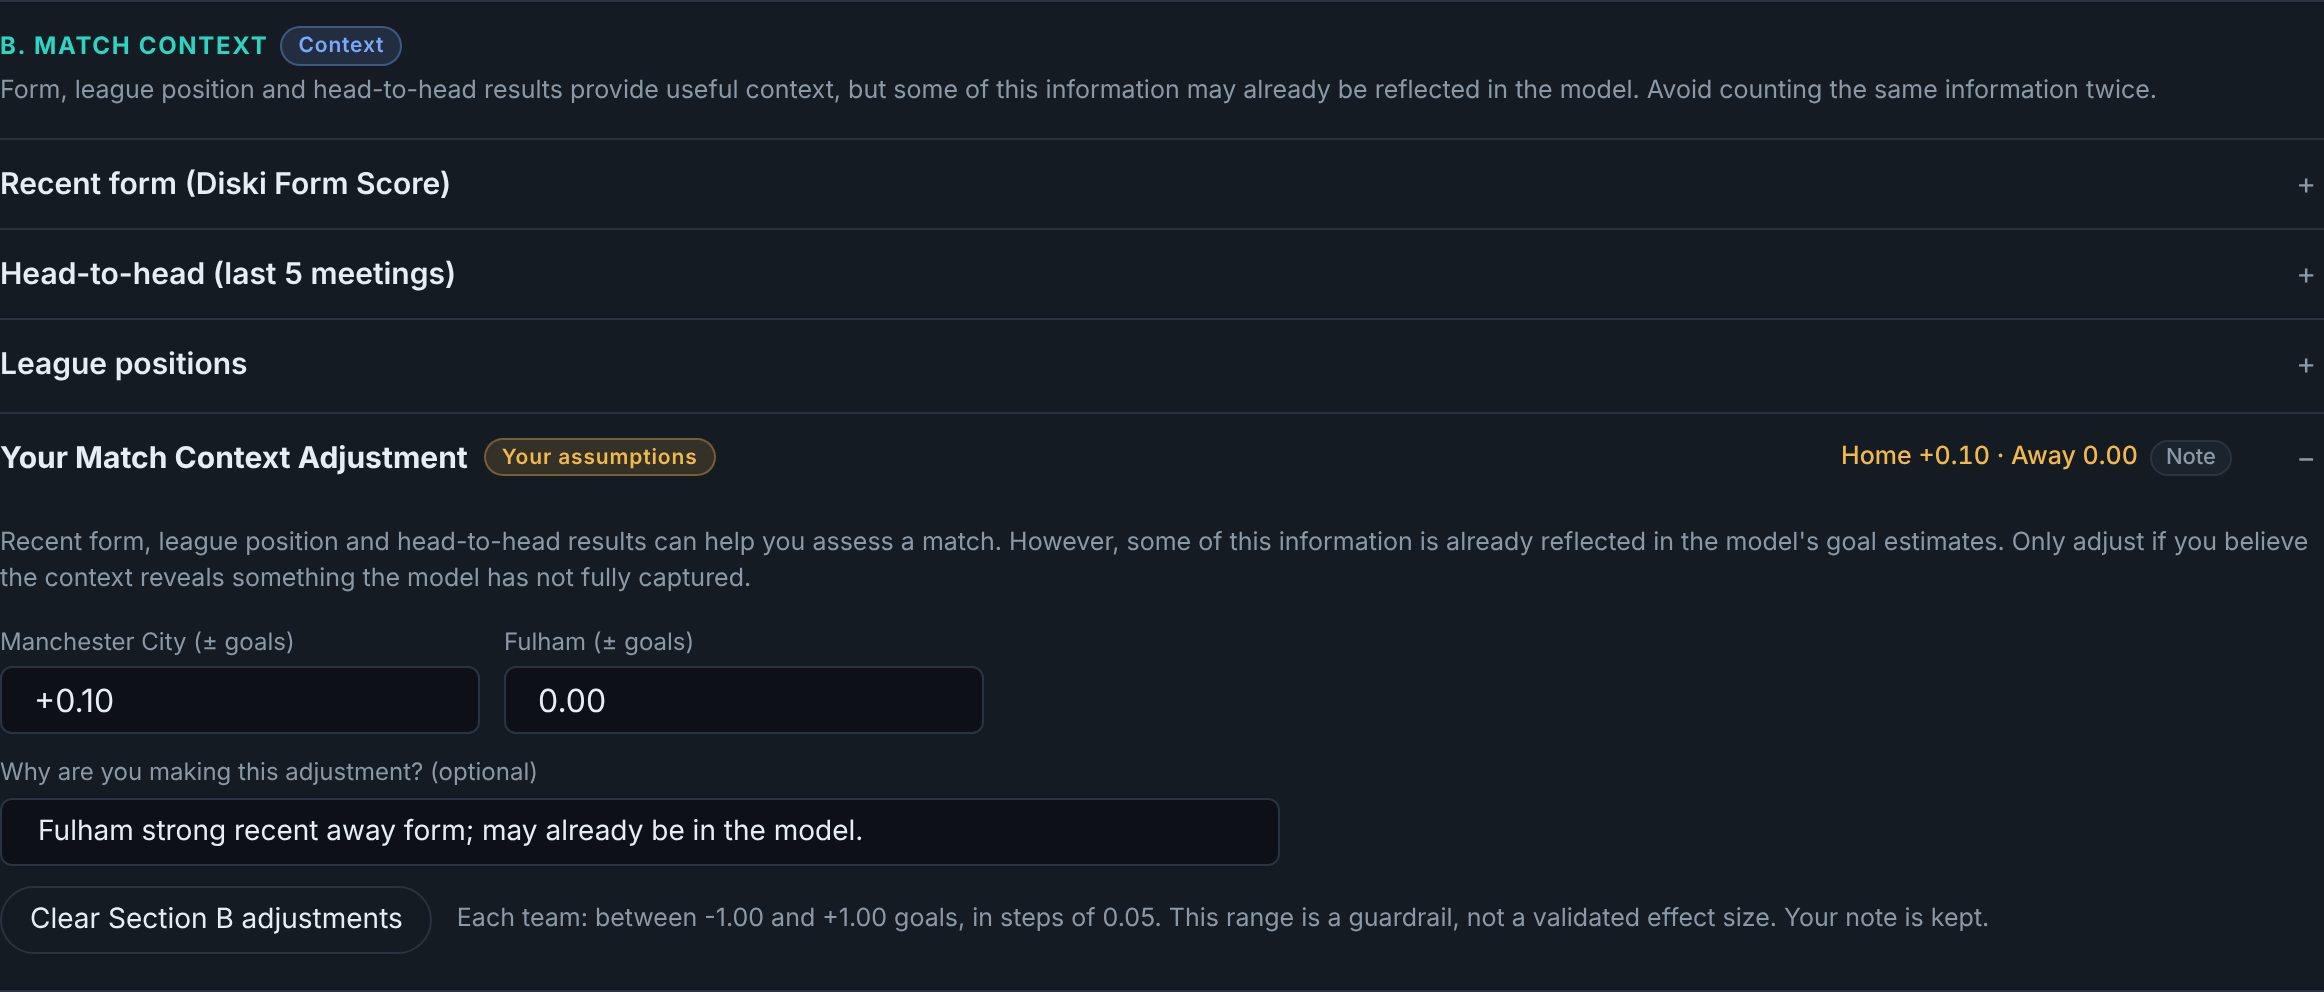
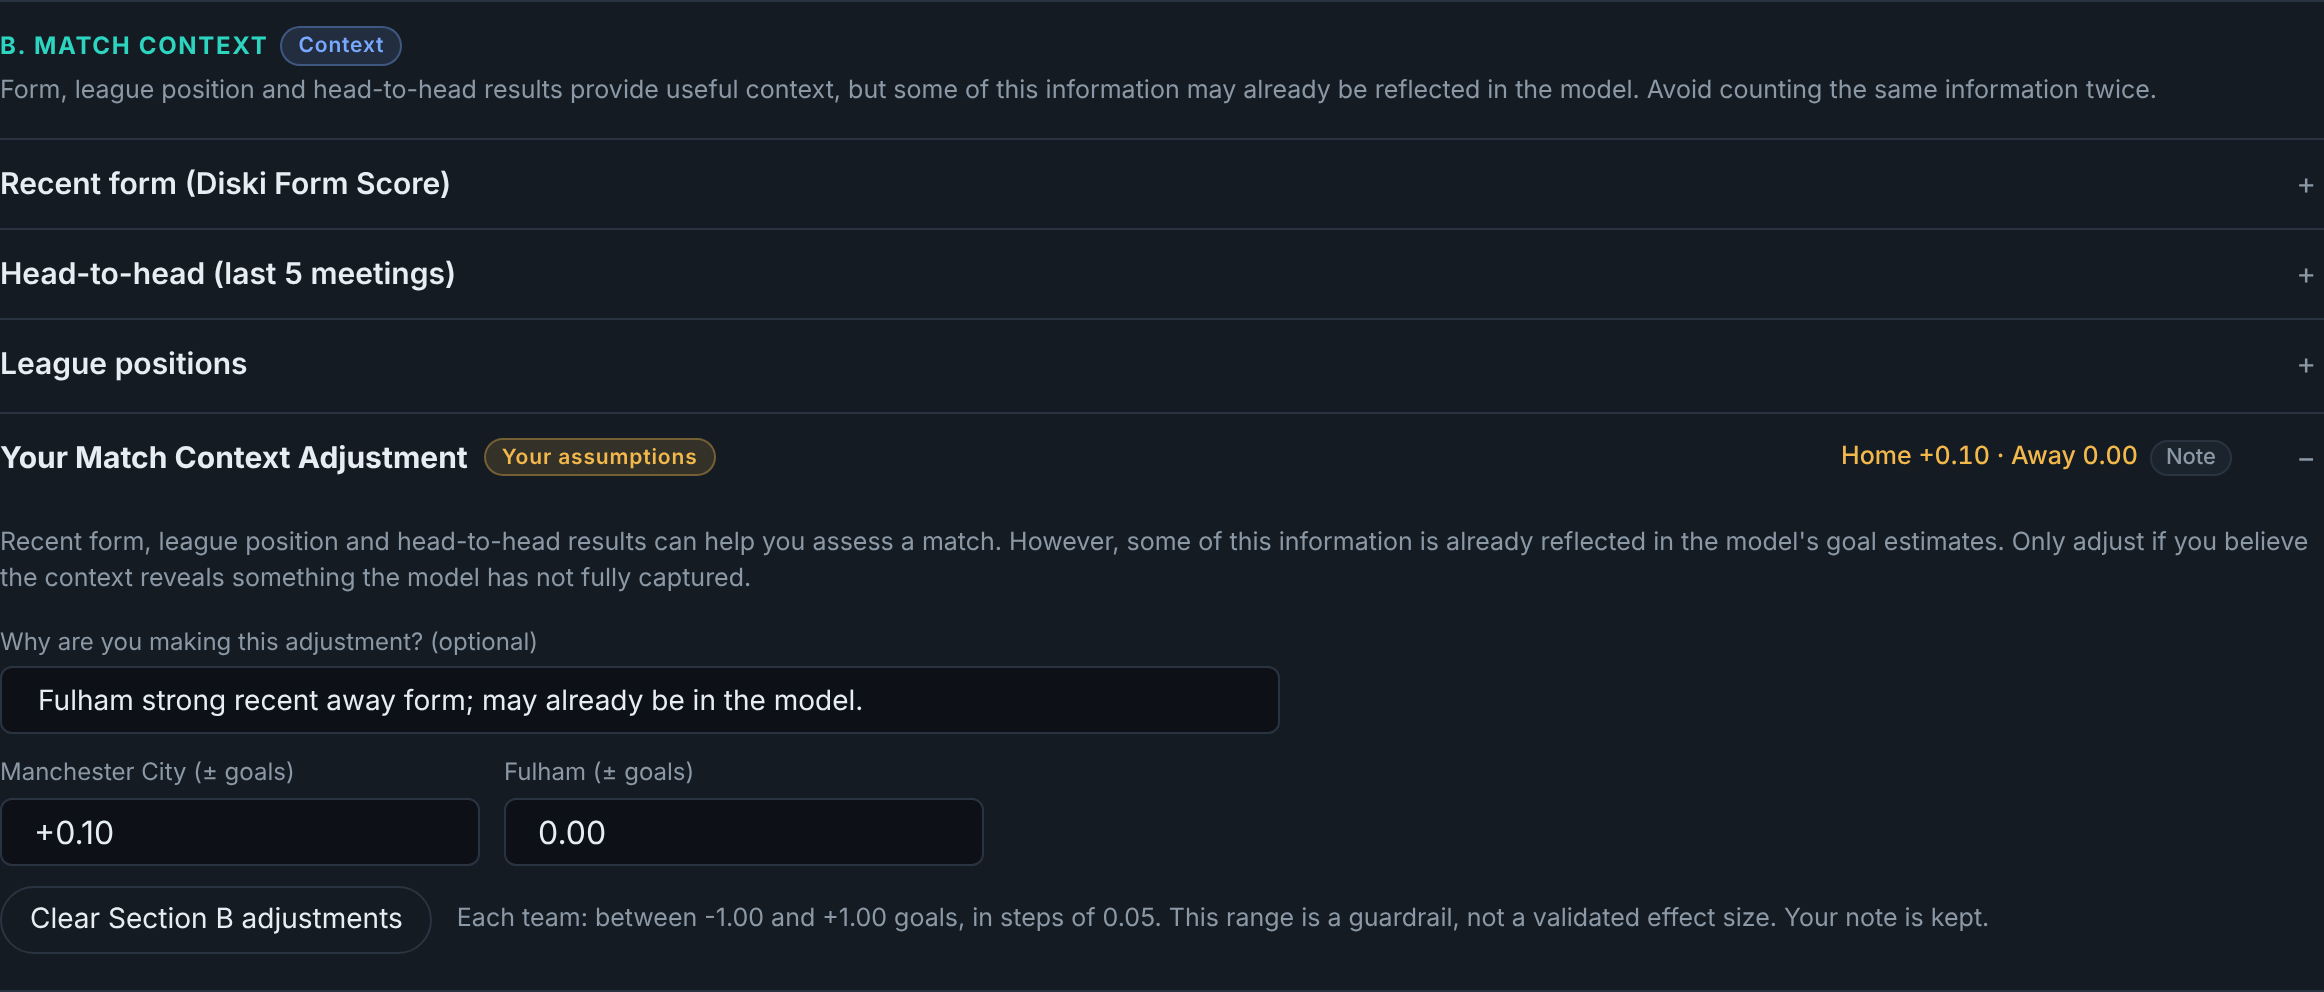
Section B: research note above the adjustment inputs, matching Section C
Layout only; calculations, callbacks and state are unchanged.

Claude-Session: https://claude.ai/code/session_01G8XHfLBAfQK8Kx4cyd1XFy

Changed region(s): [[0.0, 0.75, 0.3718, 0.875], [0.0, 0.6875, 0.3718, 0.7188], [0.0, 0.625, 0.3098, 0.6562]]

diff --git a/src/diski9/app/assets/style.css b/src/diski9/app/assets/style.css
@@ -536,5 +536,4 @@ details.more details.more { background: var(--surface-2); margin-top: 8px; }
 /* Section B: match-context adjustment shares Section C's look */
 .ctx-acc { margin-top: 2px; }
 .ctx-acc .cat-title { display: inline-flex; align-items: center; gap: 8px; flex-wrap: wrap; }
-.ctx-note-field { margin-top: 10px; }
 .ctx-acc > summary .cat-sum-wrap { margin-left: auto; }

diff --git a/src/diski9/app/lab.py b/src/diski9/app/lab.py
@@ -587,13 +587,6 @@ def context_adjustment(r: dict, state: dict) -> html.Details:
             html.Div(
                 [
                     html.P(CONTEXT_ADJUST_NOTE, className="muted small"),
-                    html.Div(
-                        [
-                            _ctx_input("home", f["home"], c["home"]),
-                            _ctx_input("away", f["away"], c["away"]),
-                        ],
-                        className="cat-inputs",
-                    ),
                     html.Label(
                         [
                             html.Span(
@@ -610,7 +603,14 @@ def context_adjustment(r: dict, state: dict) -> html.Details:
                                 className="cat-note",
                             ),
                         ],
-                        className="cat-field wide ctx-note-field",
+                        className="cat-field wide",
+                    ),
+                    html.Div(
+                        [
+                            _ctx_input("home", f["home"], c["home"]),
+                            _ctx_input("away", f["away"], c["away"]),
+                        ],
+                        className="cat-inputs",
                     ),
                     html.Div(
                         [

diff --git a/tests/test_match_context.py b/tests/test_match_context.py
@@ -330,3 +330,13 @@ def test_browser_section_b_alignment_and_bookmaker_layout(data):
 
 def test_timedelta_import_used():
     assert timedelta(days=1) == DAY
+
+
+def test_section_b_note_comes_before_inputs_like_section_c(data):
+    r, ov, off = data.detail(EPL_FIX)
+    d = render_detail(r, ov, off, "1X2", data)
+    for acc_cls in ("ctx-acc", "cat-acc"):
+        acc = _find(d, lambda c, k=acc_cls: isinstance(c, html.Details) and k in c.className)[0]
+        body = acc.children[1].children
+        kinds = [getattr(c, "className", "") for c in body]
+        assert kinds.index("cat-field wide") < kinds.index("cat-inputs"), acc_cls
